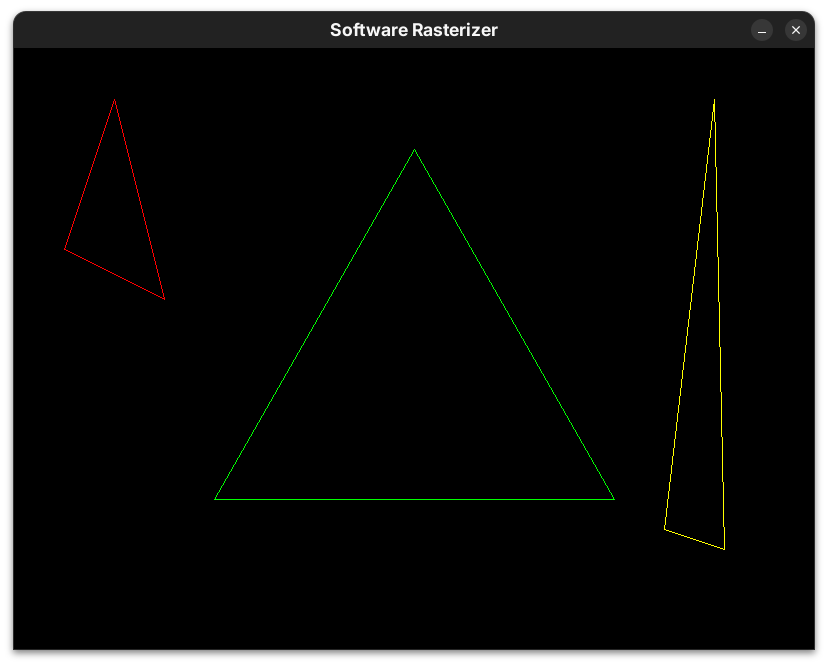
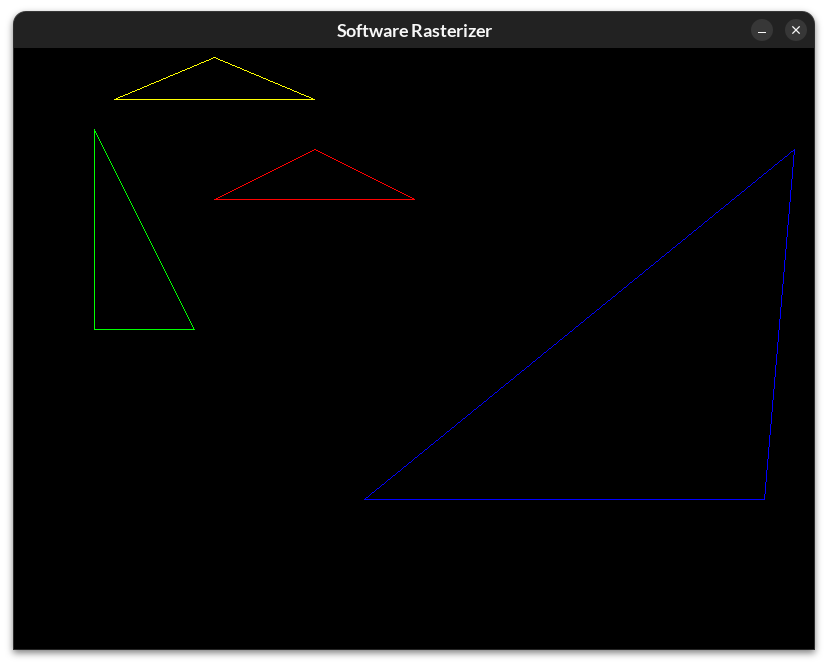
refactor(rasterizer): modularize rasterization into Rasterizer class
- Add Rasterizer class for drawing primitives
- Move pixel, line, and triangle rasterization into the Rasterizer module
- Update main loop to use the Rasterizer interface
- Organize rasterizer source files
- Update CMake to recursively discover source files
- Refresh README with the new project structure
- Update wireframe triangle screenshot

Changed region(s): [[0.3925, 0.03, 0.6039, 0.0601], [0.8454, 0.3003, 0.8756, 0.3303], [0.4529, 0.2703, 0.4831, 0.3003]]

diff --git a/src/main.cpp b/src/main.cpp
@@ -1,78 +1,8 @@
 #include <core/framebuffer.h>
+#include <raster/rasterizer.h>
 
 #include <SDL.h>
-#include <vector>
 #include <cstdint>
-
-void draw_pixel(Framebuffer& fb, int x, int y, uint32_t color) {
-
-    fb.setPixel(x, y, color);
-}
-
-// Bresenham's Algorithm
-void draw_line(Framebuffer& fb, int x0, int y0, int x1, int y1, int width, int height, uint32_t color) {
-
-    // Calculate the distances
-    int dx = abs(x1 - x0);
-    int dy = -abs(y1 - y0);
-
-    // Direction of the steps
-    int sx = (x0 < x1) ? 1 : -1;
-    int sy = (y0 < y1) ? 1 : -1;
-
-    // Initial error
-    int error = dx + dy;
-
-    while (true) {
-        // Draw the current pixel
-        draw_pixel(fb, x0, y0, color);
-
-        if (x0 == x1 && y0 == y1) {
-            break;
-        }
-
-        int error2 = 2 * error;
-
-        // Walk on the X axis?
-        if (error2 >= dy) {
-            error += dy;
-            x0 += sx;
-        }
-
-        // Walk on the Y axis?
-        if (error2 <= dx) {
-            error += dx;
-            y0 += sy;
-        }
-    }
-}
-
-void draw_triangle(Framebuffer& fb, int x0, int y0, int x1, int y1, int x2, int y2, int width, int height, uint32_t color) {
-
-    draw_line(fb, x0, y0, x1, y1, width, height, color);
-    draw_line(fb, x1, y1, x2, y2, width, height, color);
-    draw_line(fb, x2, y2, x0, y0, width, height, color);
-}
-
-/*
-void draw_horizontal_line(std::vector<uint32_t>& buffer, int fix_y, int max_x, int width, int height, uint32_t color) {
-
-    if (max_x >= 0 && max_x < width && fix_y >= 0 && fix_y < height) {
-        for (int x = 0; x <= max_x; x++) {
-            draw_pixel(buffer, x, fix_y, width, height, color);
-        }
-    }
-}
-
-void draw_vertical_line(std::vector<uint32_t>& buffer, int fix_x, int max_y, int width, int height, uint32_t color) {
-
-    if (max_y >= 0 && max_y < height && fix_x >= 0 && fix_x < width) {
-        for (int y = 0; y <= max_y; y++) {
-            draw_pixel(buffer, fix_x, y, width, height, color);
-        }
-    }
-}
-*/
 
 int main(int argc, char *argv[]) {
 
@@ -86,49 +16,35 @@ int main(int argc, char *argv[]) {
     // Initialize SDL
     if (SDL_Init(SDL_INIT_VIDEO) != 0) {
         SDL_LogError(SDL_LOG_CATEGORY_ERROR, "SDL could not initialize! SDL_Error: %s\n", SDL_GetError());
+
         return 1;
     }
 
     // Create an application window with the following settings
-    window = SDL_CreateWindow(
-        "Software Rasterizer",
-        SDL_WINDOWPOS_CENTERED,
-        SDL_WINDOWPOS_CENTERED,
-        WIDTH,
-        HEIGHT,
-        0
-    );
+    window = SDL_CreateWindow("Software Rasterizer", SDL_WINDOWPOS_CENTERED, SDL_WINDOWPOS_CENTERED, WIDTH, HEIGHT, 0);
 
     if(!window) {
         SDL_LogError(SDL_LOG_CATEGORY_ERROR, "Could not create window: %s\n", SDL_GetError());
 
         SDL_Quit();
+
         return 1;
     }
 
     // Renderer creation
-    renderer = SDL_CreateRenderer(
-        window,
-        -1,
-        SDL_RENDERER_ACCELERATED
-    );
+    renderer = SDL_CreateRenderer(window, -1, SDL_RENDERER_ACCELERATED);
 
     if (!renderer) {
         SDL_LogError(SDL_LOG_CATEGORY_ERROR, "Unable to render: %s\n", SDL_GetError());
 
         SDL_DestroyWindow(window);
         SDL_Quit();
+
         return 1;
     }
 
     // Texture creation
-    texture = SDL_CreateTexture(
-        renderer,
-        SDL_PIXELFORMAT_ARGB8888,
-        SDL_TEXTUREACCESS_STREAMING,
-        WIDTH,
-        HEIGHT
-    );
+    texture = SDL_CreateTexture(renderer, SDL_PIXELFORMAT_ARGB8888, SDL_TEXTUREACCESS_STREAMING, WIDTH, HEIGHT);
 
     if (!texture) {
         SDL_LogError(SDL_LOG_CATEGORY_ERROR, "It was not possible to create the texture: %s\n", SDL_GetError());
@@ -136,18 +52,19 @@ int main(int argc, char *argv[]) {
         SDL_DestroyRenderer(renderer);
         SDL_DestroyWindow(window);
         SDL_Quit();
+
         return 1;
     }
 
     // Framebuffer creation
     Framebuffer framebuffer(WIDTH, HEIGHT);
 
+    // Rasterizer creation
+    Rasterizer raster{};
+
     bool running = true;
     SDL_Event event;
 
-    // Starting position
-    int pixel_x = 0;
-    int pixel_y = 300;
     uint32_t redColor = 0xFFFF0000;
     uint32_t blueColor = 0xFF0000FF;
     uint32_t greenColor = 0xFF00FF00;
@@ -164,41 +81,13 @@ int main(int argc, char *argv[]) {
         // Reset
         framebuffer.reset(0xFF000000);
 
-        draw_triangle(framebuffer, 780, 100, 350, 450, 750, 450, WIDTH, HEIGHT, greenColor);
-        draw_triangle(framebuffer, 50, 50, 150, 250, 50, 200, WIDTH, HEIGHT, redColor);
-        draw_triangle(framebuffer, 200, 150, 300, 100, 400, 150, WIDTH, HEIGHT, yellowColor);
-
-        /* 
-        draw_line(framebuffer, 400, 300, 700, 100, WIDTH, HEIGHT, blueColor);
-        draw_line(framebuffer, 400, 300, 700, 500, WIDTH, HEIGHT, redColor);
-        draw_line(framebuffer, 400, 300, 100, 300, WIDTH, HEIGHT, greenColor);
-        draw_line(framebuffer, 400, 300, 400, 50, WIDTH, HEIGHT, yellowColor);
-        */
-
-        /*
-        draw_horizontal_line(framebuffer, 300, 400, WIDTH, HEIGHT, blueColor);
-        draw_vertical_line(framebuffer, 400, 300, WIDTH, HEIGHT, greenColor);
-        /*
-
-        /* Animation
-
-        draw_pixel(framebuffer, pixel_x, pixel_y, WIDTH, HEIGHT, redColor);
-
-        pixel_x++;
-
-        if(pixel_x >= WIDTH) {
-            pixel_x = 0;
-        }
-
-        */
+        raster.drawTriangle(framebuffer, 780, 100, 350, 450, 750, 450, blueColor);
+        raster.drawTriangle(framebuffer, 80, 80, 180, 280, 80, 280, greenColor);
+        raster.drawTriangle(framebuffer, 200, 150, 300, 100, 400, 150, redColor);
+        raster.drawTriangle(framebuffer, 100, 50, 200, 8, 300, 50, yellowColor);
 
         // Array upload
-        SDL_UpdateTexture(
-            texture,
-            NULL,
-            framebuffer.data(),
-            WIDTH * sizeof(uint32_t)
-        );
+        SDL_UpdateTexture(texture, NULL, framebuffer.data(), WIDTH * sizeof(uint32_t));
 
         // Draw the texture to the window
         SDL_RenderClear(renderer);

diff --git a/include/raster/rasterizer.h b/include/raster/rasterizer.h
@@ -1,0 +1,65 @@
+/* Software Rasterizer
+ * Rasterizer
+ *
+ * Copyright (c) 2026 Alexandre Vieira
+ * Licensed under the MIT License.
+ */
+
+#ifndef RASTER_RASTERIZER_H
+#define RASTER_RASTERIZER_H
+
+#include <core/framebuffer.h>
+
+#include <cstdint>
+
+/**
+ * @brief Provides software rasterization algorithms.
+ *
+ * Implements basic rendering primitives by writing pixels into a
+ * framebuffer. The rasterizer is responsible for converting geometric
+ * primitives into pixels.
+ */
+class Rasterizer {
+
+public:
+    /**
+     * @brief Draws a single pixel.
+     *
+     * @param fb Destination framebuffer.
+     * @param x Horizontal pixel coordinate.
+     * @param y Vertical pixel coordinate.
+     * @param color Pixel color in ARGB8888 format.
+     */
+    void drawPixel(Framebuffer& fb, int x, int y, uint32_t color);
+
+    /**
+     * @brief Draws a line using Bresenham's line algorithm.
+     *
+     * @param fb Destination framebuffer.
+     * @param x0 Starting X coordinate.
+     * @param y0 Starting Y coordinate.
+     * @param x1 Ending X coordinate.
+     * @param y1 Ending Y coordinate.
+     * @param color Line color in ARGB8888 format.
+     */
+    void drawLine(Framebuffer& fb, int x0, int y0, int x1, int y1, uint32_t color);
+
+    /**
+     * @brief Draws the outline of a triangle.
+     *
+     * The triangle is rendered by drawing the three edges connecting
+     * its vertices.
+     *
+     * @param fb Destination framebuffer.
+     * @param x0 First vertex X coordinate.
+     * @param y0 First vertex Y coordinate.
+     * @param x1 Second vertex X coordinate.
+     * @param y1 Second vertex Y coordinate.
+     * @param x2 Third vertex X coordinate.
+     * @param y2 Third vertex Y coordinate.
+     * @param color Triangle color in ARGB8888 format.
+     */
+    void drawTriangle(Framebuffer& fb, int x0, int y0, int x1, int y1, int x2, int y2, uint32_t color);
+};
+
+#endif

diff --git a/src/raster/rasterizer.cpp b/src/raster/rasterizer.cpp
@@ -1,0 +1,64 @@
+#include <raster/rasterizer.h>
+
+#include <cstdlib>
+
+void Rasterizer::drawPixel(Framebuffer& fb, int x, int y, uint32_t color) {
+
+    fb.setPixel(x, y, color);
+}
+
+/**
+ * Draws a line using Bresenham's integer line rasterization algorithm.
+ *
+ * The algorithm incrementally determines the closest pixel to the ideal
+ * line without performing floating-point calculations.
+ */
+void Rasterizer::drawLine(Framebuffer& fb, int x0, int y0, int x1, int y1, uint32_t color) {
+
+    int x = x0;
+    int y = y0;
+
+    int dx = std::abs(x1 - x0);
+    int dy = std::abs(y1 - y0);
+
+    int sx = (x0 < x1) ? 1 : -1;
+    int sy = (y0 < y1) ? 1 : -1;
+
+    int px = 2 * dy - dx;
+    int py = 2 * dx - dy;
+
+    if (dx > dy) {
+        for (int i = 0; i <= dx; i++) {
+            drawPixel(fb, x, y, color);
+
+            if (px > 0) {
+                y += sy;
+                px += 2 * dy - 2 * dx;
+            } else {
+                px += 2 * dy;
+            }
+
+            x += sx;
+        }
+    } else {
+        for (int i = 0; i <= dy; i++) {
+            drawPixel(fb, x, y, color);
+
+            if (py > 0) {
+                x += sx;
+                py += 2 * dx - 2 * dy;
+            } else {
+                py += 2 * dx;
+            }
+
+            y += sy;
+        }
+    }
+}
+
+void Rasterizer::drawTriangle(Framebuffer& fb, int x0, int y0, int x1, int y1, int x2, int y2, uint32_t color) {
+
+    drawLine(fb, x0, y0, x1, y1, color);
+    drawLine(fb, x1, y1, x2, y2, color);
+    drawLine(fb, x2, y2, x0, y0, color);
+}

diff --git a/README.md b/README.md
@@ -7,6 +7,7 @@
 <p>
   <img src="https://img.shields.io/badge/status-in%20development-f39c12?style=flat-square"/>
   <img src="https://img.shields.io/badge/language-C++-00599C?style=flat-square&logo=cplusplus&logoColor=white"/>
+  <img src="https://img.shields.io/badge/library-SDL2-0A7DB8?style=flat-square&logo=sdl&logoColor=white"/>
   <img src="https://img.shields.io/badge/build-CMake-8a63d2?style=flat-square&logo=cmake&logoColor=white"/>
   <img src="https://img.shields.io/badge/license-MIT-6e7781?style=flat-square"/>
 </p>
@@ -30,7 +31,9 @@
 
 ## About
 
-This project implements a graphics pipeline entirely in software — no GPU API, no hardware rasterization. Every pixel is computed on the CPU and written directly to a framebuffer represented as a `std::vector<uint32_t>`.
+This project implements a graphics pipeline entirely in software — no GPU API, no hardware rasterization. Every pixel is computed on the CPU and written to a dedicated `Framebuffer` abstraction, which internally manages a contiguous `std::vector<uint32_t>`.
+
+The rendering algorithms are implemented in a dedicated `Rasterizer` module, keeping rendering logic separated from framebuffer management and application code.
 
 The goal is to understand from first principles what a GPU does internally: how triangles get transformed, clipped, and filled; how depth testing works; and how a frame ends up on screen.
 
@@ -52,12 +55,14 @@ The goal is to understand from first principles what a GPU does internally: how 
 ## Implementations
 
 ### Framebuffer
-- **Direct memory access** — the framebuffer is a raw `std::vector<uint32_t>` treated as video memory
-- **`draw_pixel`** — bounds-checked pixel write; prevents out-of-range memory access
-- **`clear_screen`** — fast full-buffer clear each frame
+- **Framebuffer abstraction** — encapsulates a contiguous `std::vector<uint32_t>` representing video memory
+- **Safe pixel access** — bounds-checked writes prevent out-of-range memory access
+- **Fast buffer clearing** — efficiently resets the entire framebuffer to a single color
 
-### Primitives
-- **Bresenham's Line Algorithm** — integer-only line rasterization; no floating point, no divisions
+### Rasterizer
+- **Pixel rasterization** — writes pixels through the `Framebuffer` interface
+- **Bresenham's line algorithm** — integer-only line rasterization without floating-point arithmetic
+- **Wireframe triangles** — rendered by connecting the three vertices with line primitives
 
 ### Platform
 - **SDL2** — window creation, event handling, and real-time texture streaming to the display
@@ -109,13 +114,18 @@ cmake .. && cmake --build .
 ```text
 software-rasterizer/
 ├── include/
-│   └── core/
-│       └── framebuffer.h
+│   ├── core/
+│   │   └── framebuffer.h
+│   └── raster/
+│       └── rasterizer.h
 ├── src/
 │   ├── core/
 │   │   └── framebuffer.cpp
+│   ├── raster/
+│   │   └── rasterizer.cpp
 │   └── main.cpp
 ├── screenshots/
+├── .gitignore
 ├── CMakeLists.txt
 ├── LICENSE
 └── README.md